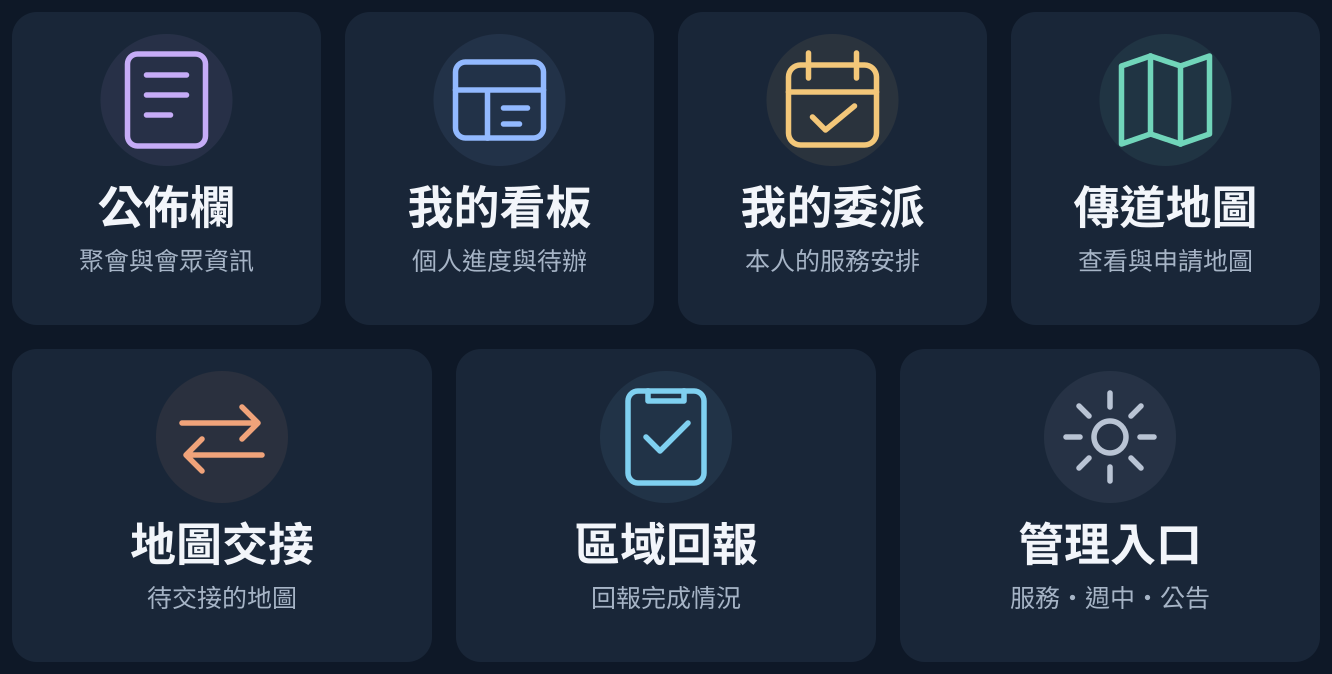
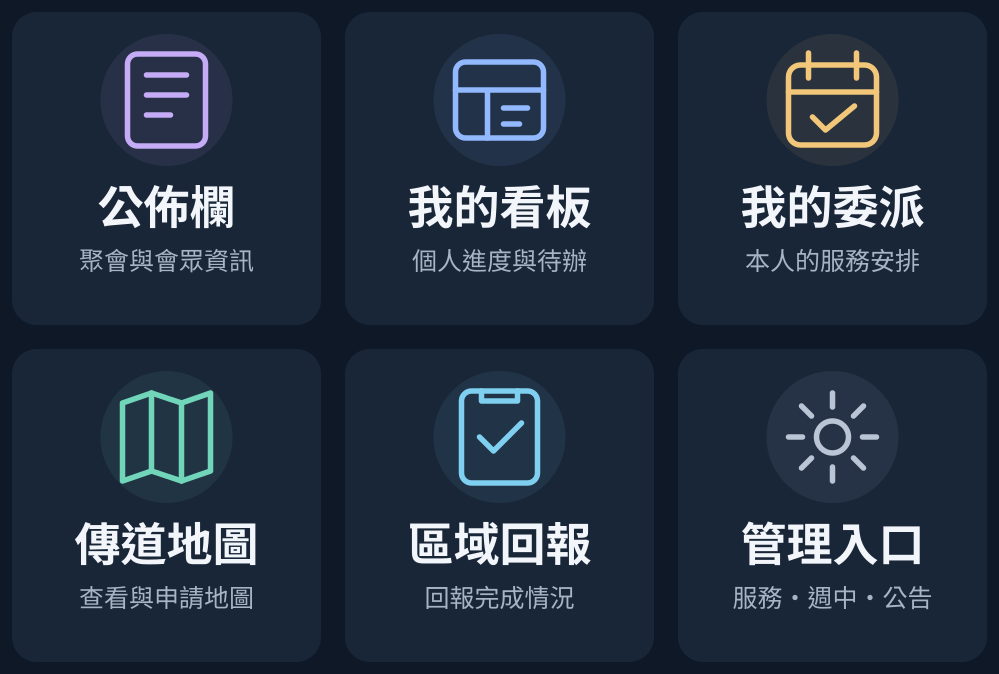
feat: LINE 選單先隱藏地圖交接格，保留開關（ADR-0102）
Claude-Session: https://claude.ai/code/session_01XDbjwPuBC87H5SF47SkSru

diff --git a/src/lib/line-rich-menu.ts b/src/lib/line-rich-menu.ts
@@ -23,11 +23,18 @@ const tiles: Record<string, { type: 'uri'; uri: string } | { type: 'message'; te
   report: { type: 'uri', uri: menuUrl('report') },
   manage: { type: 'uri', uri: menuUrl('manage') },
 }
+// 地圖交接先隱藏，等多數弟兄連結 LINE 後改成 true，並用 scripts/create-line-menu.cjs 重新產生圖片（ADR-0102）。
+// 圖片會變，所以開回時也要把 stateKey 的 v5 升版，讓發布建立新選單。
+export const SHOW_HANDOFFS = false
 // Same rows as scripts/create-line-menu.cjs, which draws the images.
-const layouts: Record<MenuKind, { width: number; label: string; rows: string[][] }> = {
+const layouts: Record<MenuKind, { width: number; label: string; rows: string[][] }> = SHOW_HANDOFFS ? {
   sister: { width: 1000, label: '姊妹', rows: [['bulletin', 'dashboard'], ['assignments', 'territory']] },
   brother: { width: 999, label: '弟兄', rows: [['bulletin', 'dashboard', 'assignments'], ['territory', 'handoffs', 'report']] },
   admin: { width: 1332, label: '管理者', rows: [['bulletin', 'dashboard', 'assignments', 'territory'], ['handoffs', 'report', 'manage']] },
+} : {
+  sister: { width: 1000, label: '姊妹', rows: [['bulletin', 'dashboard'], ['assignments', 'territory']] },
+  brother: { width: 999, label: '弟兄', rows: [['bulletin', 'dashboard', 'assignments'], ['territory', 'report']] },
+  admin: { width: 999, label: '管理者', rows: [['bulletin', 'dashboard', 'assignments'], ['territory', 'report', 'manage']] },
 }
 function definition(kind: MenuKind) {
   const { width, label, rows } = layouts[kind]

diff --git a/src/components/dashboard/LineRichMenu.tsx b/src/components/dashboard/LineRichMenu.tsx
@@ -5,7 +5,7 @@ type Status = { enabled: boolean; installed: boolean; currentId: string | null; 
 const previews = [
   { kind: 'sister', label: '姊妹（預設）', width: 1000 },
   { kind: 'brother', label: '弟兄', width: 999 },
-  { kind: 'admin', label: '管理者', width: 1332 },
+  { kind: 'admin', label: '管理者', width: 999 },
 ]
 export default function LineRichMenu() {
   const [status, setStatus] = useState<Status | null>(null)

diff --git a/docs/adr/0102-line-menu-by-role.md b/docs/adr/0102-line-menu-by-role.md
@@ -5,10 +5,12 @@
 使用者要求不同身分在 LINE 官方帳號看到不同選單，並明確選擇固定三版、不依持有地圖動態切換（避免選單一直變）。
 
 - 姊妹版（4 格，2×2）：公佈欄、我的看板、我的委派、傳道地圖。設為官方帳號預設選單，未設性別、未連結、停用或刪除的人都看這版。
-- 弟兄版（6 格，3×2）：姊妹版再加地圖交接、區域回報。依成員性別 `brother` 判斷。
-- 管理者版（7 格，上 4 下 3）：弟兄版再加管理入口。依 `role === 'admin'`，不分性別。
+- 弟兄版（5 格，上 3 下 2）：姊妹版再加區域回報。依成員性別 `brother` 判斷。
+- 管理者版（6 格，3×2）：弟兄版再加管理入口。依 `role === 'admin'`，不分性別。
 
-傳道地圖改開地圖分配頁（`/area-status`，可申請個人區域）；原本開待交接的功能改由「地圖交接」（`/dashboard?view=handoffs`）承接。區域回報開 `/bulletin/territory-report`；管理入口開 `/dashboard?view=manage`，定位到看板的常用管理連結。我的委派維持訊息動作。
+「地圖交接」格（弟兄與管理者）使用者決定先隱藏，等多數弟兄連結 LINE 後再啟用並完善功能。程式以 `SHOW_HANDOFFS`（`src/lib/line-rich-menu.ts` 與 `scripts/create-line-menu.cjs` 各一）控制；開啟時弟兄 6 格、管理者 7 格，需重新產生圖片並將狀態鍵升版後再發布。
+
+傳道地圖改開地圖分配頁（`/area-status`，可申請個人區域）；原本開待交接的功能日後由「地圖交接」（`/dashboard?view=handoffs`）承接。區域回報開 `/bulletin/territory-report`；管理入口開 `/dashboard?view=manage`，定位到看板的常用管理連結。我的委派維持訊息動作。
 
 實作沿用 ADR-0047 的發布鎖與 expectedCurrentId。發布時建立三個選單（狀態鍵 `line_rich_menu_v5_{kind}`，舊 v4 選單不刪），姊妹版設為預設，再以 bulk link 把現有弟兄與管理者綁上各自選單。之後在成員改權限／性別／帳號狀態（成員編輯、性別批次、人員設定）、LINE 配對、待確認帳號連結或建立、刪除成員時，對該成員個別 link 或 unlink。三個選單都發布前不做個別切換；切換失敗只記錄，不擋原操作，可再按一次發布補綁。
 

diff --git a/CONTEXT.md b/CONTEXT.md
@@ -1,6 +1,6 @@
 # 地圖分配系統 — 領域詞彙表
 
-- 2026-10-30：使用者要求不同身分在 LINE 看到不同圖文選單，選擇固定三版、不依持圖切換。姊妹（含未設性別、未連結）4 格：公佈欄、我的看板、我的委派、傳道地圖；弟兄 6 格再加地圖交接、區域回報；管理者 7 格再加管理入口。傳道地圖改開地圖分配頁，可申請個人區域。改權限、改性別、LINE 連結、停用或刪除成員時自動換選單。詳見 ADR-0102。
+- 2026-10-30：使用者要求不同身分在 LINE 看到不同圖文選單，選擇固定三版、不依持圖切換。姊妹（含未設性別、未連結）4 格：公佈欄、我的看板、我的委派、傳道地圖；弟兄 5 格再加區域回報；管理者 6 格再加管理入口。「地圖交接」格先隱藏，等多數弟兄連結 LINE 後再啟用並完善。傳道地圖改開地圖分配頁，可申請個人區域。改權限、改性別、LINE 連結、停用或刪除成員時自動換選單。詳見 ADR-0102。
 
 - 2026-10-30：使用者表示曾湖是自主管理地圖，不受領取回報限制。成員新增「自主管理地圖」設定（預設開給曾湖）：回報未領取的地圖不擋、免確認，只留回報紀錄；別人領取中的地圖仍照一般規則交管理員確認。詳見 ADR-0101。
 
